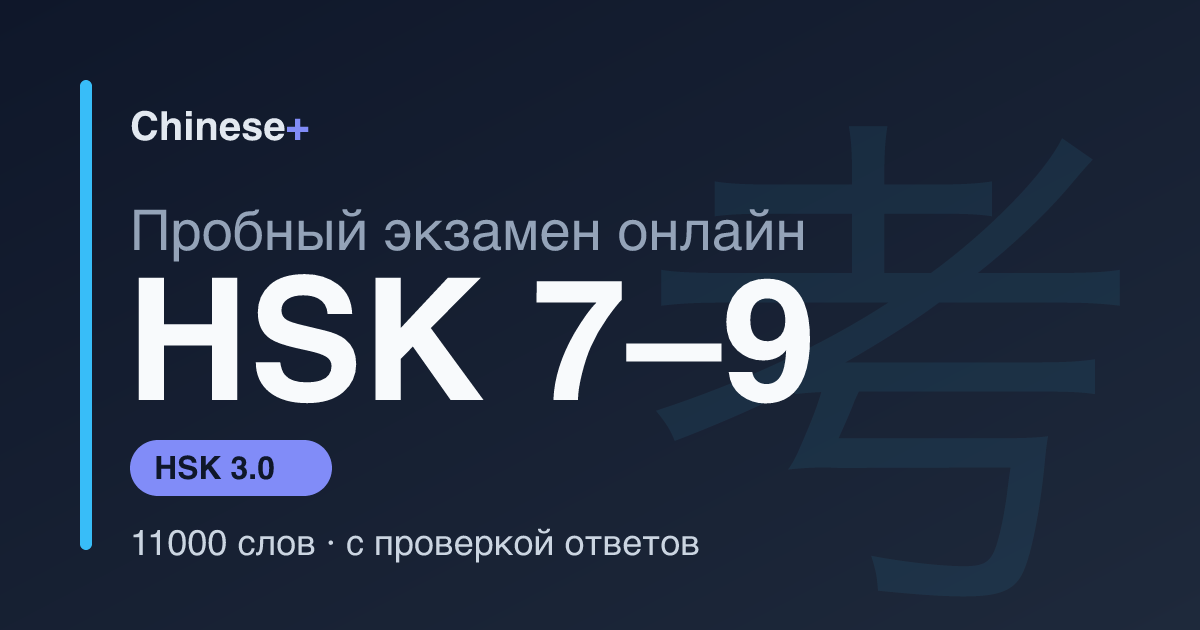
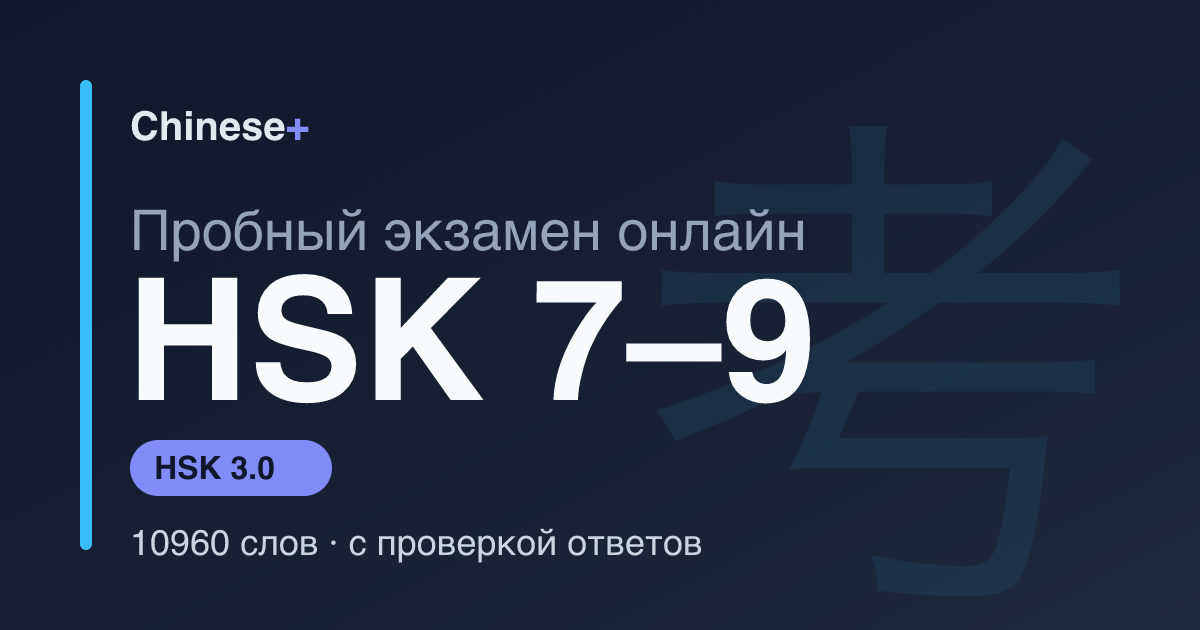
[SEO] minor fixes

Changed region(s): [[0.1233, 0.8444, 0.5858, 0.9048]]

diff --git a/qwik/src/components/hsk/exams/exams-catalog.tsx b/qwik/src/components/hsk/exams/exams-catalog.tsx
@@ -166,7 +166,7 @@ const FAQ: { q: string; a: string }[] = [
   },
   {
     q: 'Чем HSK 2.0 отличается от HSK 3.0?',
-    a: 'HSK 2.0 — привычный экзамен из шести уровней с лексикой от 150 до 5000 слов. HSK 3.0 — новый стандарт из девяти уровней: лексика — от 300 до 11 000 слов, а уровни 7–9 сдаются одним экзаменом.',
+    a: 'HSK 2.0 — привычный экзамен из шести уровней с лексикой от 150 до 5000 слов. HSK 3.0 — новый стандарт из девяти уровней: лексика — от 300 до 10 960 слов, а уровни 7–9 сдаются одним экзаменом.',
   },
   {
     q: 'Сколько баллов нужно, чтобы сдать HSK?',
@@ -410,7 +410,7 @@ export const ExamsCatalog = component$(({ data }: { data: ExamsCatalogData }) =>
             )}
             {version === 'new' && !lvl && (
               <p>
-                HSK 3.0 — новый стандарт из девяти уровней: лексика выросла до 11 000 слов, а уровни
+                HSK 3.0 — новый стандарт из девяти уровней: лексика выросла до 10 960 слов, а уровни
                 7–9 сдаются одним экзаменом. Здесь — пробные экзамены по новому формату.
               </p>
             )}

diff --git a/qwik/src/components/hsk/exams/levels.ts b/qwik/src/components/hsk/exams/levels.ts
@@ -23,11 +23,17 @@ export const levelName = (version: HskVersion, lvl: string) =>
 export const examsPath = (version?: HskVersion | '', lvl?: string) =>
   `/hsk/exams/${version ? `${VERSION_SEGMENT[version]}/` : ''}${version && lvl ? `${lvl}/` : ''}`;
 
+// The HSK 3.0 word lists store levels 7-9 as "789"; exams store them as "7".
+export const toWordsLevel = (version: HskVersion, lvl: string) =>
+  version === 'new' && lvl === '7' ? '789' : lvl;
+export const fromWordsLevel = (version: HskVersion, lvl: string) =>
+  version === 'new' && lvl === '789' ? '7' : lvl;
+
 export const wordsPath = (version: HskVersion, lvl: string) =>
-  `/hsk/${VERSION_SEGMENT[version]}/table?lvl=${lvl}`;
+  `/hsk/${VERSION_SEGMENT[version]}/table?lvl=${toWordsLevel(version, lvl)}`;
 
 export const wordTestsPath = (version: HskVersion, lvl: string) =>
-  `/hsk/${VERSION_SEGMENT[version]}/tests?lvl=${lvl}`;
+  `/hsk/${VERSION_SEGMENT[version]}/tests?lvl=${toWordsLevel(version, lvl)}`;
 
 export const ogImagePath = (version?: HskVersion | '', lvl?: string) =>
   `/img/og/hsk-exams${version ? `-${version}` : ''}${version && lvl ? `-${lvl}` : ''}.png`;

diff --git a/qwik/src/components/hsk/exams-link-card.tsx b/qwik/src/components/hsk/exams-link-card.tsx
@@ -1,6 +1,6 @@
 import { component$ } from '@builder.io/qwik';
 import { Link } from '@builder.io/qwik-city';
-import { type HskVersion, HSK_LEVELS, examsPath, levelLabel } from './exams/levels';
+import { type HskVersion, HSK_LEVELS, examsPath, fromWordsLevel, levelLabel } from './exams/levels';
 
 type HskExamsLinkCardProps = {
   version: HskVersion;
@@ -8,7 +8,8 @@ type HskExamsLinkCardProps = {
 };
 
 export const HskExamsLinkCard = component$(({ version, level }: HskExamsLinkCardProps) => {
-  const lvl = HSK_LEVELS[version].includes(level) ? level : '';
+  const examLvl = fromWordsLevel(version, level);
+  const lvl = HSK_LEVELS[version].includes(examLvl) ? examLvl : '';
   return (
     <div class="card w-full bg-base-200 my-3">
       <div class="card-body">

diff --git a/qwik/src/routes/hsk/3/tests/index.tsx b/qwik/src/routes/hsk/3/tests/index.tsx
@@ -188,7 +188,7 @@ export const head: DocumentHead = {
     {
       name: 'description',
       content:
-        'Короткие тесты на звание лексики нового HSK 3.0. Проверьте чтение, знание пиньиня, напечатайте иероглифы на скорость.',
+        'Короткие тесты на знание лексики нового HSK 3.0. Проверьте чтение, знание пиньиня, напечатайте иероглифы на скорость.',
     },
   ],
 };

diff --git a/qwik/src/routes/hsk/2/tests/index.tsx b/qwik/src/routes/hsk/2/tests/index.tsx
@@ -243,7 +243,7 @@ export const head: DocumentHead = {
     {
       name: 'description',
       content:
-        'Короткие тесты на звание лексики HSK 2.0. Проверьте слух, чтение, знание пиньиня, напечатайте иероглифы на скорость.',
+        'Короткие тесты на знание лексики HSK 2.0. Проверьте слух, чтение, знание пиньиня, напечатайте иероглифы на скорость.',
     },
   ],
 };
